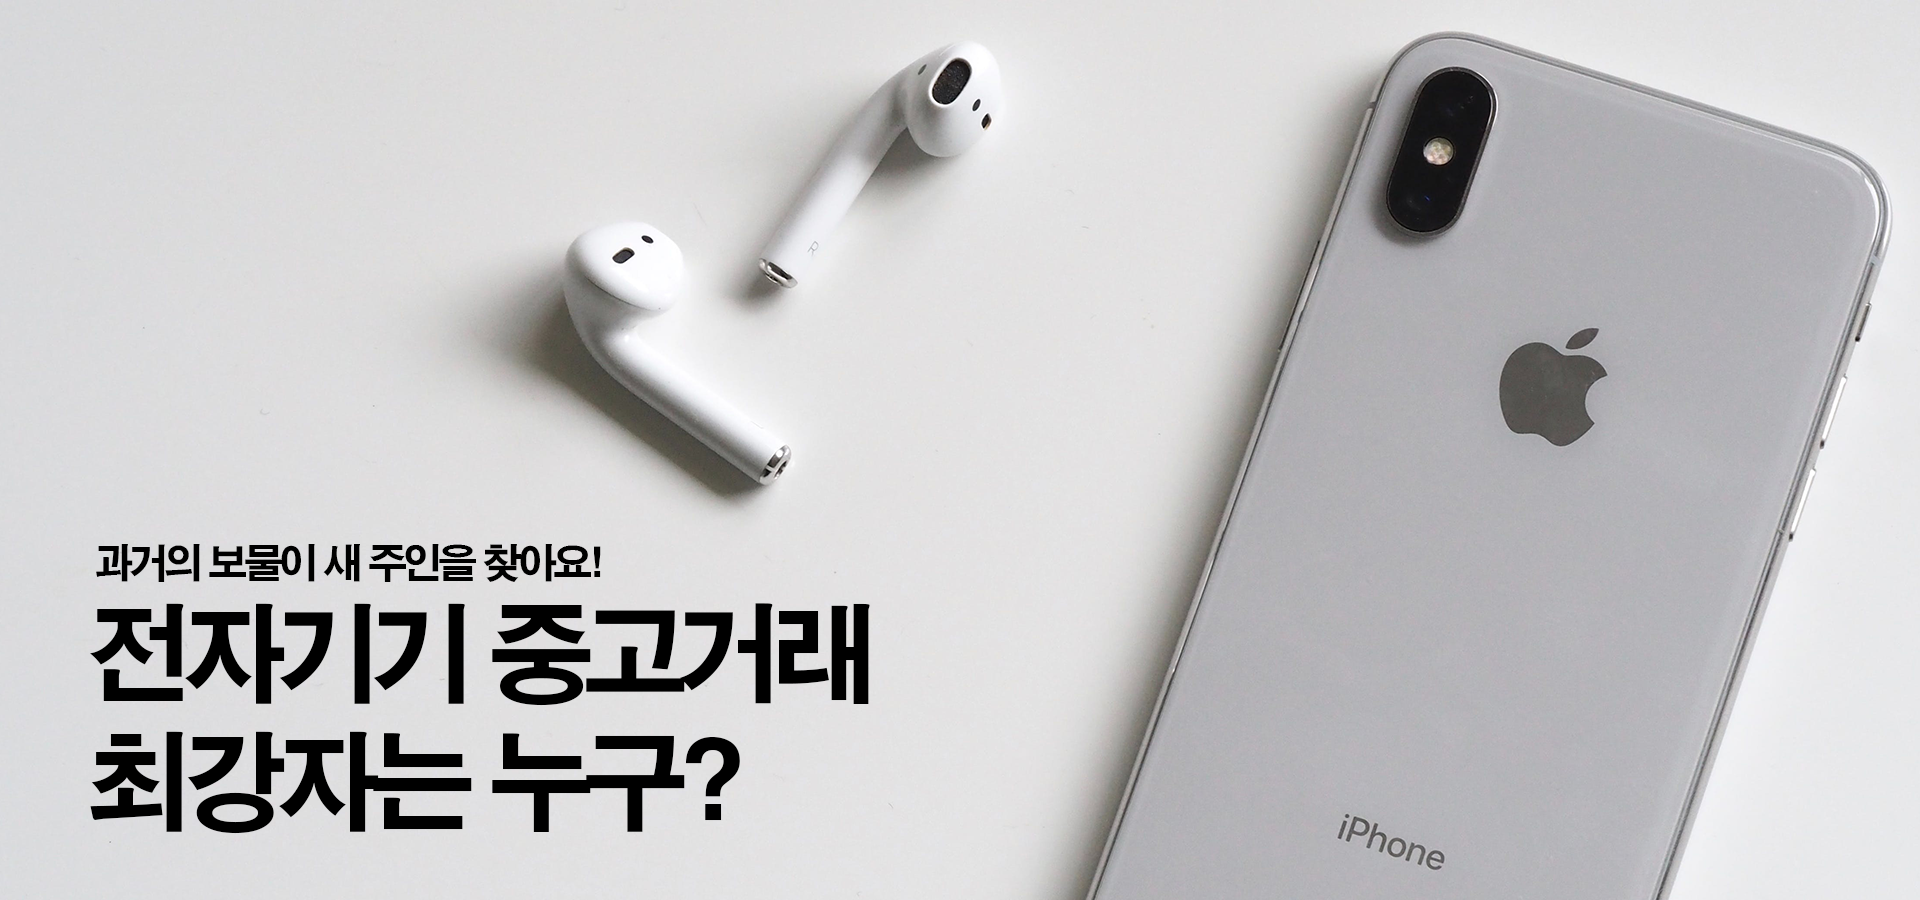
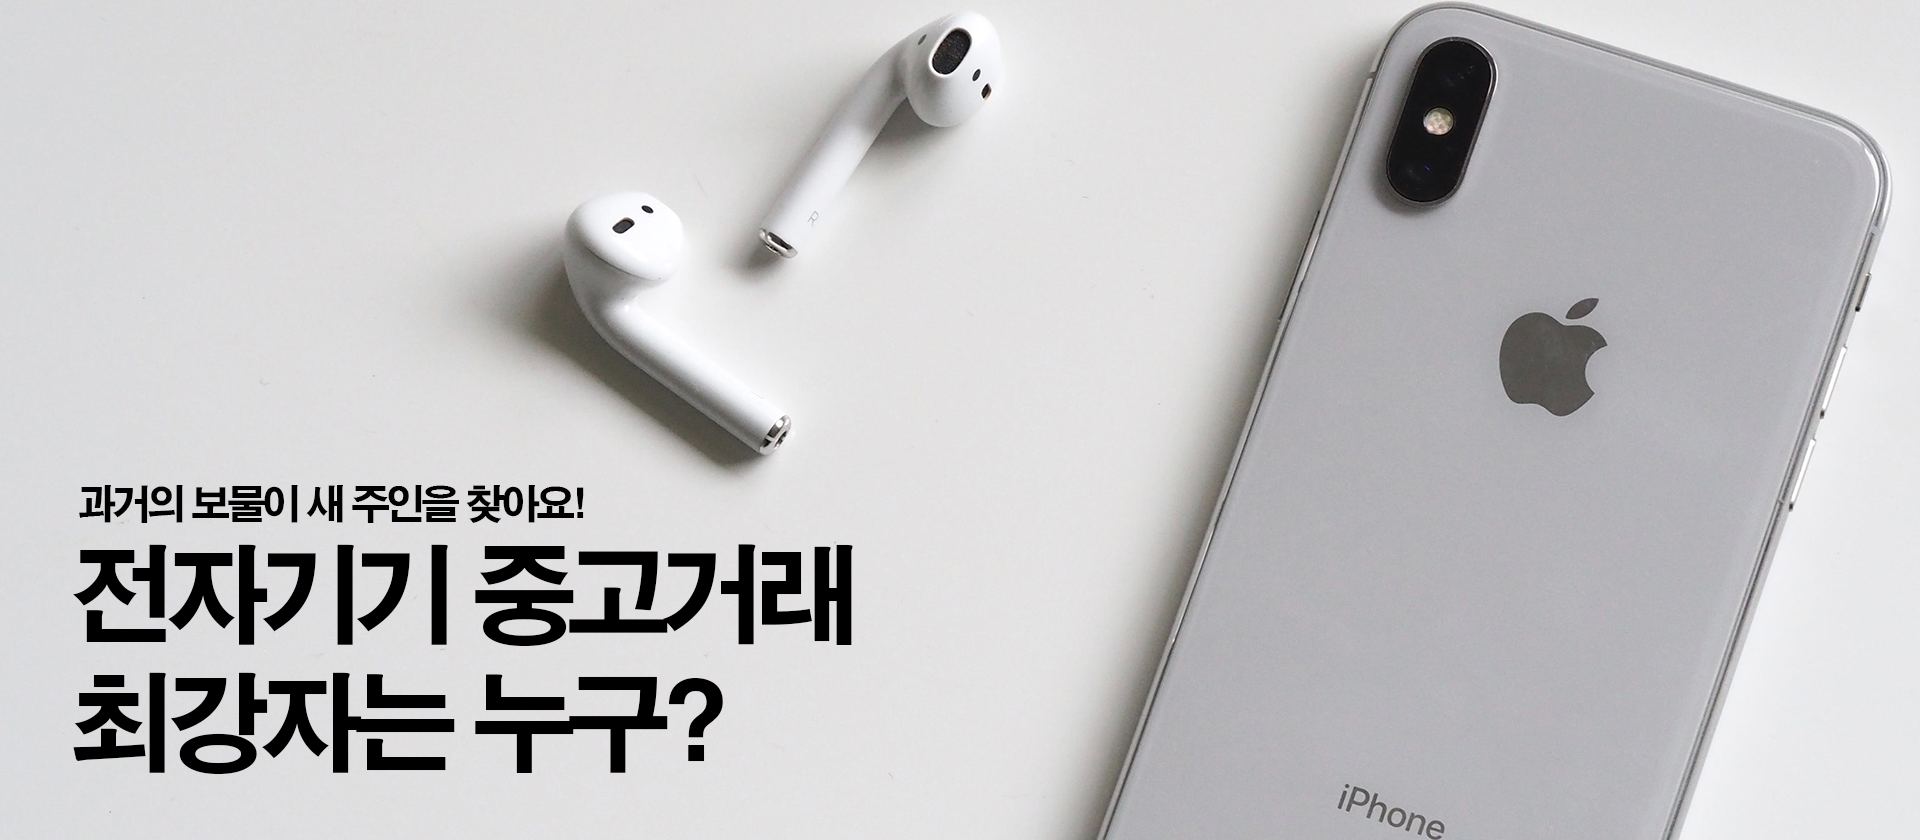
css

diff --git a/trade/src/main/webapp/css/mainSlider.css b/trade/src/main/webapp/css/mainSlider.css
@@ -38,7 +38,7 @@
 .swiper-slide img {
 /* 	padding-left: 5rem; */
 /* 	padding-right: 5rem; */
-    margin-top: 8rem;
+    margin-top: 12.5rem;
     width: 100%;
     height: 840px;
 /*     object-fit: cover; */
@@ -49,7 +49,7 @@
     top: var(--swiper-pagination-top,auto);
     left: 0;
     width: 100%;
-    top: 38rem;
+    top: 65rem;
 }
 
 .swiper {
